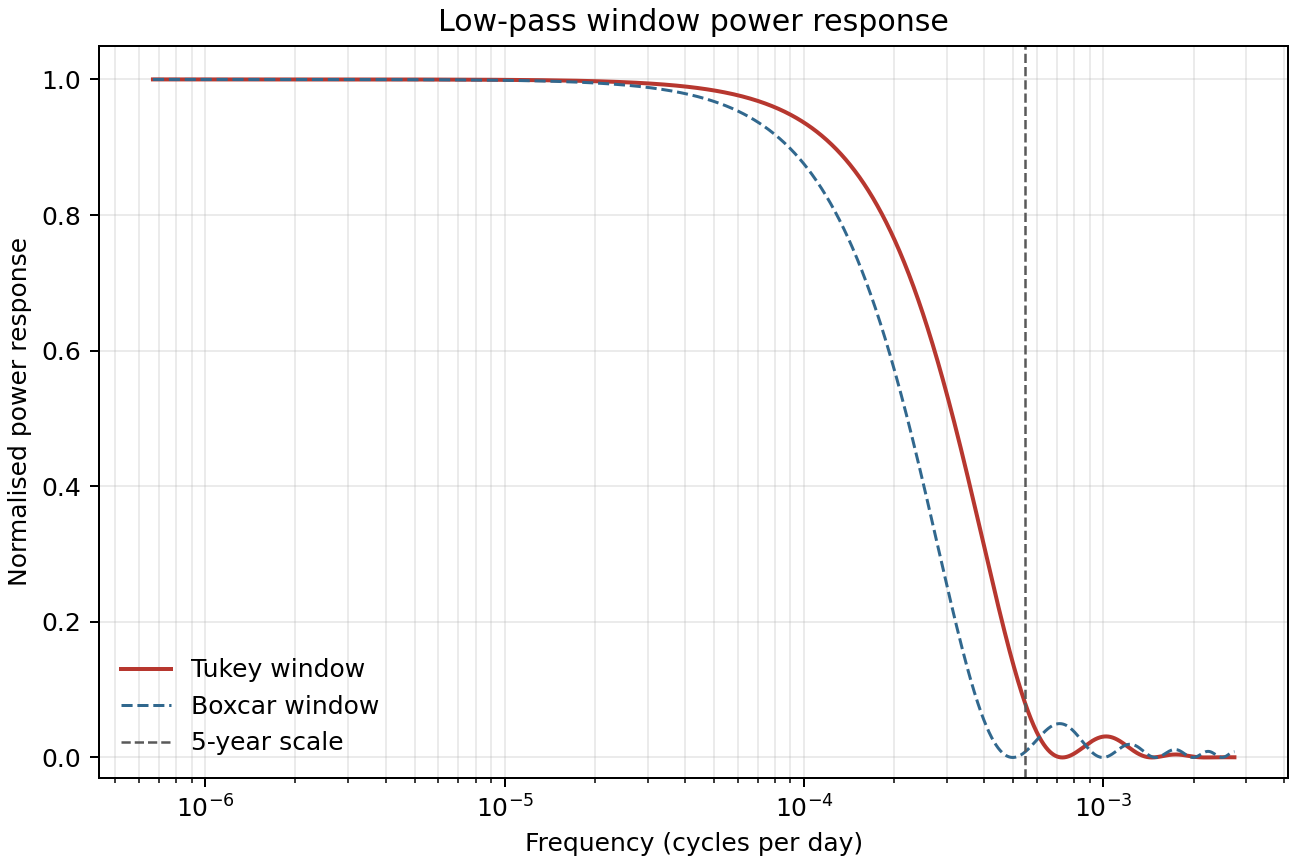
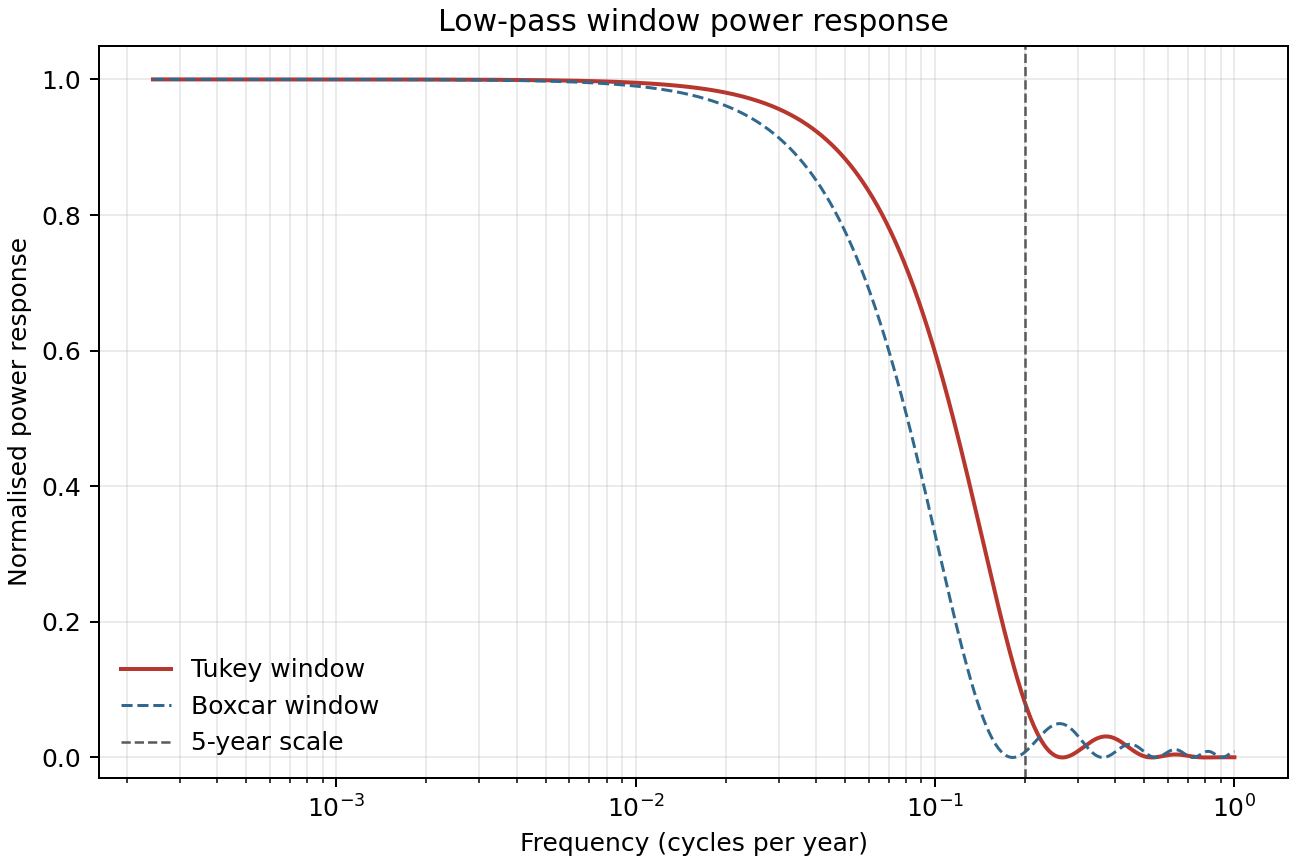
Use annual frequency units for spectra

diff --git a/assignment_analysis.py b/assignment_analysis.py
@@ -28,6 +28,7 @@ SEGMENT_LENGTH = 64
 OVERLAP = 0.0
 LOWPASS_DAYS = 5 * 365.25
 CONFIDENCE_LEVEL = 0.95
+DAYS_PER_YEAR = 365.25
 
 
 def _longest_nan_run(values: np.ndarray) -> int:
@@ -171,21 +172,25 @@ def run() -> dict[str, object]:
     fig, ax = plt.subplots(figsize=(7.2, 5.2), constrained_layout=True)
     positive = freq > 0
     positive_f = freq_f > 0
-    ax.loglog(freq[positive], psd[positive], color="#31688e", linewidth=1.1, label="Raw Welch PSD")
+    freq_year = freq * DAYS_PER_YEAR
+    freq_year_f = freq_f * DAYS_PER_YEAR
+    psd_year = psd / DAYS_PER_YEAR
+    psd_year_f = psd_f / DAYS_PER_YEAR
+    ax.loglog(freq_year[positive], psd_year[positive], color="#31688e", linewidth=1.1, label="Raw Welch PSD")
     ax.fill_between(
-        freq[positive],
-        psd[positive] * ci_lower_factor,
-        psd[positive] * ci_upper_factor,
+        freq_year[positive],
+        psd_year[positive] * ci_lower_factor,
+        psd_year[positive] * ci_upper_factor,
         color="#31688e",
         alpha=0.18,
         linewidth=0,
         label="95% chi-squared CI",
     )
-    ax.loglog(freq_f[positive_f], psd_f[positive_f], color="#b7372f", linewidth=1.5, label="Filtered Welch PSD")
-    ax.axvline(1.0 / LOWPASS_DAYS, color="0.35", linestyle="--", linewidth=1.0, label="5-year cutoff scale")
+    ax.loglog(freq_year_f[positive_f], psd_year_f[positive_f], color="#b7372f", linewidth=1.5, label="Filtered Welch PSD")
+    ax.axvline(DAYS_PER_YEAR / LOWPASS_DAYS, color="0.35", linestyle="--", linewidth=1.0, label="5-year cutoff scale")
     ax.set_title(f"{VARIABLE_LABEL} power spectrum")
-    ax.set_xlabel("Frequency (cycles per day)")
-    ax.set_ylabel(f"PSD ({UNITS}$^2$ / cycles per day)")
+    ax.set_xlabel("Frequency (cycles per year)")
+    ax.set_ylabel(f"PSD ({UNITS}$^2$ / cycles per year)")
     ax.grid(True, which="both", alpha=0.25)
     ax.legend(frameon=False)
     fig.savefig(FIGURE_DIR / "assignment1_spectrum_raw_filtered.png", dpi=180)
@@ -193,15 +198,17 @@ def run() -> dict[str, object]:
 
     freq_resp_t, response_t = _window_response("tukey", lp_window, dt_days)
     freq_resp_b, response_b = _window_response("boxcar", lp_window, dt_days)
+    freq_resp_year_t = freq_resp_t * DAYS_PER_YEAR
+    freq_resp_year_b = freq_resp_b * DAYS_PER_YEAR
     fig, ax = plt.subplots(figsize=(7.2, 4.8), constrained_layout=True)
     valid_t = freq_resp_t > 0
     valid_b = freq_resp_b > 0
-    ax.semilogx(freq_resp_t[valid_t], response_t[valid_t], color="#b7372f", linewidth=1.6, label="Tukey window")
-    ax.semilogx(freq_resp_b[valid_b], response_b[valid_b], color="#31688e", linewidth=1.2, linestyle="--", label="Boxcar window")
-    ax.axvline(1.0 / LOWPASS_DAYS, color="0.35", linestyle="--", linewidth=1.0, label="5-year scale")
+    ax.semilogx(freq_resp_year_t[valid_t], response_t[valid_t], color="#b7372f", linewidth=1.6, label="Tukey window")
+    ax.semilogx(freq_resp_year_b[valid_b], response_b[valid_b], color="#31688e", linewidth=1.2, linestyle="--", label="Boxcar window")
+    ax.axvline(DAYS_PER_YEAR / LOWPASS_DAYS, color="0.35", linestyle="--", linewidth=1.0, label="5-year scale")
     ax.set_ylim(-0.03, 1.05)
     ax.set_title("Low-pass window power response")
-    ax.set_xlabel("Frequency (cycles per day)")
+    ax.set_xlabel("Frequency (cycles per year)")
     ax.set_ylabel("Normalised power response")
     ax.grid(True, which="both", alpha=0.25)
     ax.legend(frameon=False)

diff --git a/report.md b/report.md
@@ -40,6 +40,7 @@ a 64-sample segment length, and no overlap. The record is short, so this
 configuration is close to a tapered periodogram, but it keeps nearly the full
 record length and gives a stable variance budget. The segment length corresponds
 to about 32 years because the sampling interval is approximately half a year.
+For readability, the spectrum is plotted against frequency in cycles per year.
 
 The integrated spectrum satisfies the Parseval variance check. The ratio between
 integrated PSD and time-domain variance is 0.996 for the raw series, which is